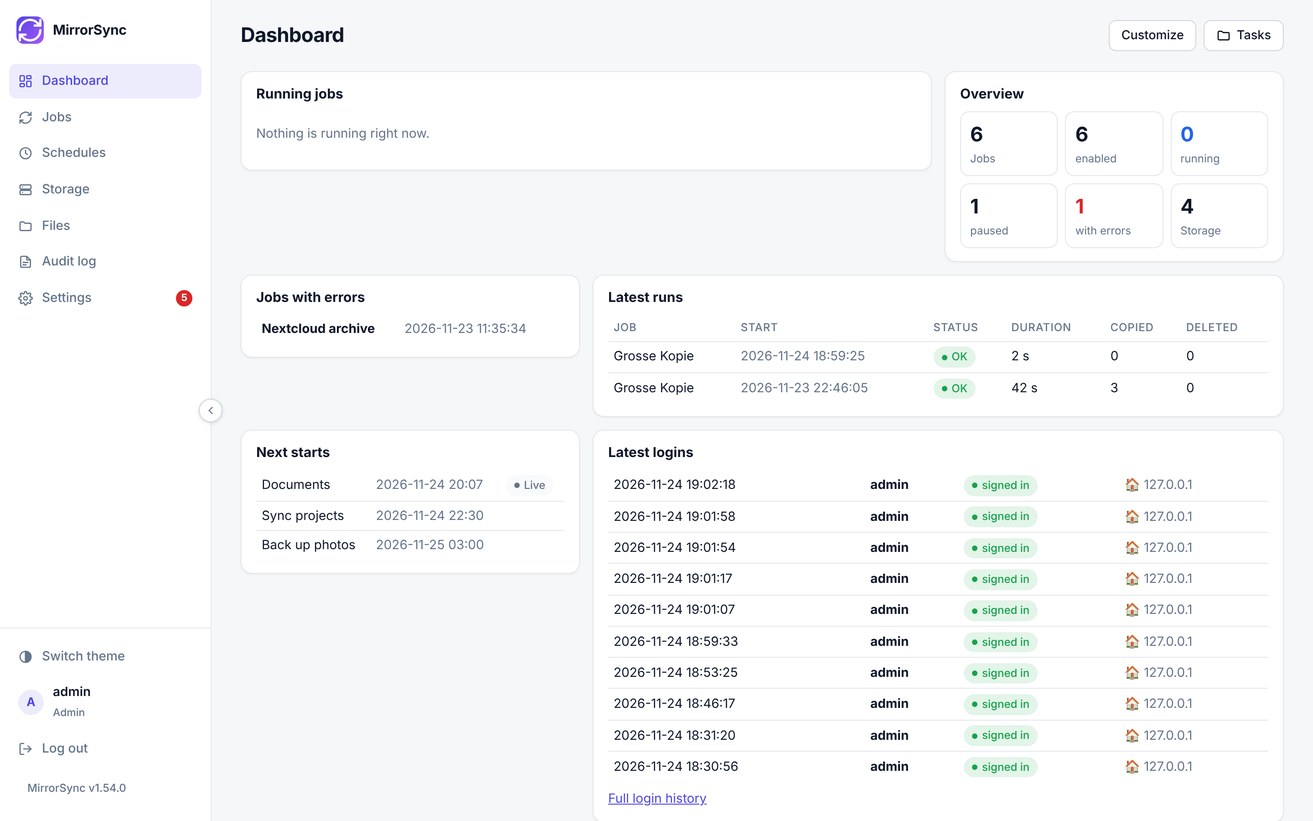
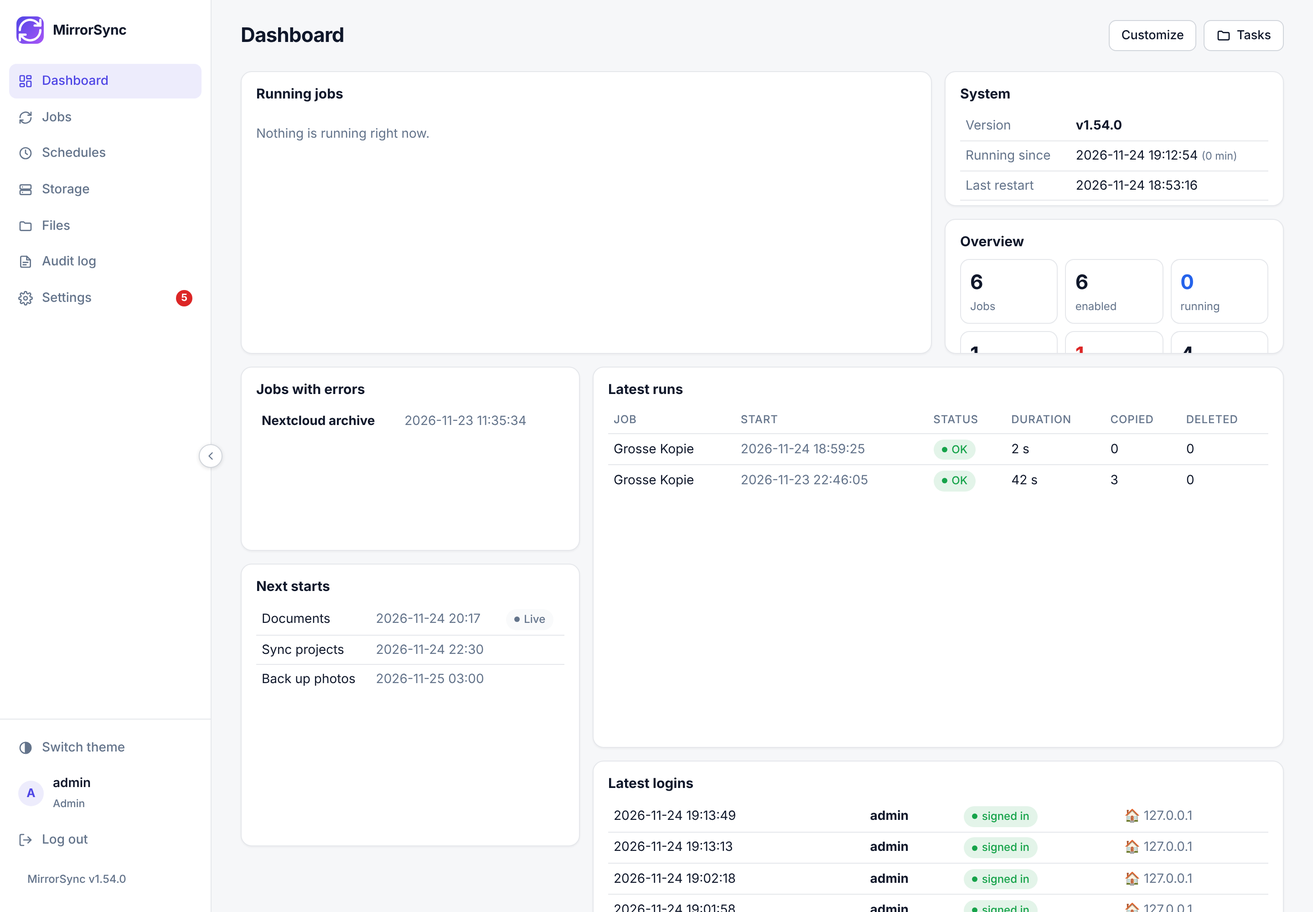
1.55.0: Dashboard-Kacheln frei in Breite und Höhe
Claude-Session: https://claude.ai/code/session_01JV9q9kZHgvjmuziGFDHUDA

diff --git a/app/templates.py b/app/templates.py
@@ -2432,8 +2432,8 @@ if(E)dropZone($('manual-drop'),el=>{const id=el.dataset.id;api('/schedules/job/'
 render();
 </script>
 {% endblock %}""",
-"dashboard_tiles.html": r"""{% for t in layout %}{% set x = d.get(t.id) %}<section class="dtile {{ 'wide' if t.size == 'w' }}" data-id="{{ t.id }}" data-size="{{ t.size }}">
-<div class="dhead"><span class="dgrip" title="Ziehen zum Verschieben">⠿</span><h3>{{ _(titles[t.id][0]) }}</h3><span style="flex:1"></span><span class="dedit"><button type="button" class="btn sm" onclick="dMove(this,-1)" title="Nach vorne">↑</button><button type="button" class="btn sm" onclick="dMove(this,1)" title="Nach hinten">↓</button><button type="button" class="btn sm" onclick="dSize(this)" title="Schmal oder breit">⇔</button><button type="button" class="btn sm del" onclick="dHide(this)" title="Ausblenden">✕</button></span></div>
+"dashboard_tiles.html": r"""{% for t in layout %}{% set x = d.get(t.id) %}<section class="dtile" data-id="{{ t.id }}" data-w="{{ t.w }}" data-h="{{ t.h }}" style="grid-column:span {{ t.w }};grid-row:span {{ t.h }}">
+<div class="dhead"><span class="dgrip" title="Ziehen zum Verschieben">⠿</span><h3>{{ _(titles[t.id][0]) }}</h3><span style="flex:1"></span><span class="dedit"><button type="button" class="btn sm" onclick="dMove(this,-1)" title="Nach vorne">↑</button><button type="button" class="btn sm" onclick="dMove(this,1)" title="Nach hinten">↓</button><small class="dsz mut"></small><button type="button" class="btn sm del" onclick="dHide(this)" title="Ausblenden">✕</button></span></div><span class="dres" title="Ziehen, um Breite und Höhe zu ändern"></span>
 <div class="dbody">
 {% if t.id == "running" %}{% if x %}{% for r in x %}<div class="drun"><div class="dline"><a href="/job/{{ r.id }}/run/{{ r.run }}"><b>{{ r.name }}</b></a><span class="mut"><span>seit</span> {{ r.started }}</span><span style="flex:1"></span><b>{{ r.progress }} %</b></div><div class="fmpbar" style="flex:none;width:100%"><i style="width:{{ r.progress }}%"></i></div>{% if r.stats %}<small class="mut">{{ r.stats }}</small>{% endif %}</div>{% endfor %}{% else %}<p class="mut">Gerade läuft nichts.</p>{% endif %}
 {% elif t.id == "stats" %}<div class="dstats"><a href="/"><b>{{ x.jobs }}</b><span>Aufgaben</span></a><a href="/"><b>{{ x.enabled }}</b><span>eingeschaltet</span></a><a href="/"><b class="laeuft">{{ x.running }}</b><span>laufen</span></a><a href="/"><b>{{ x.paused }}</b><span>pausiert</span></a><a href="/"><b class="{{ 'fehler' if x.failed }}">{{ x.failed }}</b><span>mit Fehler</span></a><a href="/remotes"><b>{{ x.remotes }}</b><span>Speicherorte</span></a></div>
@@ -2447,11 +2447,13 @@ render();
 "dashboard.html": r"""{% extends "base.html" %}{% block title %}Dashboard{% endblock %}
 {% block actions %}<button type="button" class="btn" id="dEditBtn" onclick="dEdit(true)">Anpassen</button>{% endblock %}
 {% block body %}<style>
-.dgrid{display:grid;grid-template-columns:repeat(auto-fill,minmax(340px,1fr));gap:14px;align-items:start}
-.dtile{background:var(--card);border:1px solid var(--bd);border-radius:12px;box-shadow:var(--shadow);min-width:0}
-.dtile.wide{grid-column:span 2}@media(max-width:820px){.dtile.wide{grid-column:auto}}
-.dhead{display:flex;align-items:center;gap:8px;padding:12px 16px 4px}.dhead h3{margin:0;font-size:15px}
-.dbody{padding:4px 16px 14px;overflow-x:auto}.dbody table{width:100%}.dbody td,.dbody th{padding:5px 6px}
+.dgrid{display:grid;grid-template-columns:repeat(12,minmax(0,1fr));grid-auto-rows:40px;grid-auto-flow:row dense;gap:14px}
+.dtile{background:var(--card);border:1px solid var(--bd);border-radius:12px;box-shadow:var(--shadow);min-width:0;min-height:0;display:flex;flex-direction:column;position:relative;overflow:hidden}
+.dhead{display:flex;align-items:center;gap:8px;padding:12px 16px 4px;flex:none}.dhead h3{margin:0;font-size:15px;white-space:nowrap;overflow:hidden;text-overflow:ellipsis}
+.dbody{padding:4px 16px 14px;overflow:auto;flex:1;min-height:0}
+.dres{display:none;position:absolute;right:0;bottom:0;width:22px;height:22px;cursor:nwse-resize;touch-action:none;background:linear-gradient(135deg,transparent 50%,var(--acc) 50%);border-bottom-right-radius:12px}
+.dgrid.editing .dres{display:block}.dgrid.editing .dtile.rs{outline-color:var(--acc)}.dsz{min-width:44px;text-align:right}
+@media(max-width:820px){.dgrid{grid-template-columns:1fr;grid-auto-rows:auto}.dtile{grid-column:1/-1!important;grid-row:auto!important}.dtile .dbody{max-height:420px}.dres,.dsz{display:none!important}}.dbody table{width:100%}.dbody td,.dbody th{padding:5px 6px}
 .dgrip,.dedit{display:none}.dgrid.editing .dgrip{display:inline;cursor:grab;color:var(--mut)}.dgrid.editing .dedit{display:inline-flex;gap:4px}
 .dgrid.editing .dtile{outline:2px dashed var(--bd2);outline-offset:-2px}.dgrid.editing .dtile.drag{opacity:.4}
 .drun{padding:6px 0;border-bottom:1px solid var(--bd)}.drun:last-child{border-bottom:0}.dline{display:flex;gap:10px;align-items:baseline;flex-wrap:wrap;margin-bottom:4px}
@@ -2459,26 +2461,31 @@ render();
 .dstats a:hover{background:var(--acc-soft)}.dstats b{font-size:22px}.dstats span{color:var(--mut);font-size:12px}
 #dbar{display:none;margin-bottom:14px}#dbar.on{display:block}.dadd{display:flex;gap:8px;flex-wrap:wrap;margin-top:8px}
 </style>
-<div class="card" id="dbar"><b>Dashboard anpassen</b> <span class="mut">Kacheln ziehen oder mit ↑ ↓ verschieben, mit ⇔ schmal oder breit stellen, mit ✕ ausblenden.</span>
+<div class="card" id="dbar"><b>Dashboard anpassen</b> <span class="mut">Kacheln ziehen oder mit ↑ ↓ verschieben, an der Ecke unten rechts größer oder kleiner ziehen, mit ✕ ausblenden. Kleine Kacheln rücken automatisch in freie Lücken, z. B. zwei halb so hohe untereinander neben eine große.</span>
 <div class="dadd" id="dadd"></div>
 <p style="margin:12px 0 0"><button type="button" class="btn pri" onclick="dSave()">Speichern</button> <button type="button" class="btn" onclick="location.reload()">Abbrechen</button> <button type="button" class="btn" onclick="dReset()">Standard wiederherstellen</button></p></div>
 <div class="dgrid" id="dgrid">{% include "dashboard_tiles.html" %}</div>
 {% if not layout %}<div class="card empty" id="dempty"><p>Keine Kacheln ausgewählt. Mit „Anpassen“ Kacheln hinzufügen.</p></div>{% endif %}
 <script>
 const CAT={{ catalog|tojson }};let editing=false,dragEl=null;const G=document.getElementById('dgrid');
-function dTiles(){return [...G.querySelectorAll('.dtile')].map(t=>({id:t.dataset.id,size:t.dataset.size}))}
+function dTiles(){return [...G.querySelectorAll('.dtile')].map(t=>({id:t.dataset.id,w:+t.dataset.w,h:+t.dataset.h}))}
+function dSet(t,w,h){t.dataset.w=w;t.dataset.h=h;t.style.gridColumn='span '+w;t.style.gridRow='span '+h;const z=t.querySelector('.dsz');if(z)z.textContent=w+' × '+h}
+function dRes(t){const hd=t.querySelector('.dres');if(!hd||hd.dataset.on)return;hd.dataset.on=1;
+ hd.onpointerdown=e=>{if(!editing)return;e.preventDefault();e.stopPropagation();hd.setPointerCapture(e.pointerId);t.draggable=false;t.classList.add('rs');
+  const gs=getComputedStyle(G),gap=parseFloat(gs.columnGap)||14,cw=(G.clientWidth-11*gap)/12+gap,rh=40+(parseFloat(gs.rowGap)||14),x0=e.clientX,y0=e.clientY,w0=+t.dataset.w,h0=+t.dataset.h;
+  hd.onpointermove=m=>dSet(t,Math.max(1,Math.min(12,Math.round(w0+(m.clientX-x0)/cw))),Math.max(1,Math.min(24,Math.round(h0+(m.clientY-y0)/rh))));
+  hd.onpointerup=()=>{hd.onpointermove=null;hd.onpointerup=null;t.classList.remove('rs');t.draggable=editing}}}
 function dAddList(){const have=new Set(dTiles().map(t=>t.id)),box=document.getElementById('dadd');box.innerHTML='';
  CAT.filter(c=>!have.has(c.id)).forEach(c=>{const b=document.createElement('button');b.type='button';b.className='btn sm';b.textContent='+ '+c.title;b.title=c.description;b.onclick=()=>dAdd(c);box.appendChild(b)});
  if(!box.children.length){box.innerHTML='<span class="mut">'+"Alle Kacheln sind schon zu sehen."+'</span>'}}
-function dAdd(c){const s=document.createElement('section');s.className='dtile'+(c.size=='w'?' wide':'');s.dataset.id=c.id;s.dataset.size=c.size;
- s.innerHTML='<div class="dhead"><span class="dgrip">⠿</span><h3></h3><span style="flex:1"></span><span class="dedit"><button type="button" class="btn sm" onclick="dMove(this,-1)">↑</button><button type="button" class="btn sm" onclick="dMove(this,1)">↓</button><button type="button" class="btn sm" onclick="dSize(this)">⇔</button><button type="button" class="btn sm del" onclick="dHide(this)">✕</button></span></div><div class="dbody"><p class="mut">'+"Wird nach dem Speichern angezeigt."+'</p></div>';
- s.querySelector('h3').textContent=c.title;G.appendChild(s);dDrag(s);dAddList();const e=document.getElementById('dempty');if(e)e.remove()}
+function dAdd(c){const s=document.createElement('section');s.className='dtile';s.dataset.id=c.id;
+ s.innerHTML='<div class="dhead"><span class="dgrip">⠿</span><h3></h3><span style="flex:1"></span><span class="dedit"><button type="button" class="btn sm" onclick="dMove(this,-1)">↑</button><button type="button" class="btn sm" onclick="dMove(this,1)">↓</button><small class="dsz mut"></small><button type="button" class="btn sm del" onclick="dHide(this)">✕</button></span></div><div class="dbody"><p class="mut">'+"Wird nach dem Speichern angezeigt."+'</p></div><span class="dres"></span>';
+ s.querySelector('h3').textContent=c.title;G.appendChild(s);dSet(s,c.w,c.h);dDrag(s);dRes(s);dAddList();const e=document.getElementById('dempty');if(e)e.remove()}
 function dMove(b,dir){const t=b.closest('.dtile');if(dir<0&&t.previousElementSibling)G.insertBefore(t,t.previousElementSibling);else if(dir>0&&t.nextElementSibling)G.insertBefore(t.nextElementSibling,t)}
-function dSize(b){const t=b.closest('.dtile');t.dataset.size=t.dataset.size=='w'?'s':'w';t.classList.toggle('wide',t.dataset.size=='w')}
 function dHide(b){b.closest('.dtile').remove();dAddList()}
-function dDrag(t){t.draggable=editing;t.ondragstart=e=>{dragEl=t;t.classList.add('drag');e.dataTransfer.effectAllowed='move'};t.ondragend=()=>{t.classList.remove('drag');dragEl=null};
+function dDrag(t){t.draggable=editing;t.ondragstart=e=>{dragEl=t;t.classList.add('drag');e.dataTransfer.effectAllowed='move';try{e.dataTransfer.setData('text/plain',t.dataset.id)}catch(x){}};t.ondragend=()=>{t.classList.remove('drag');dragEl=null};
  t.ondragover=e=>{if(!dragEl||dragEl===t)return;e.preventDefault();const r=t.getBoundingClientRect(),after=(e.clientY-r.top)>r.height/2||(e.clientX-r.left)>r.width*0.66;G.insertBefore(dragEl,after?t.nextSibling:t)}}
-function dEdit(on){editing=on;G.classList.toggle('editing',on);document.getElementById('dbar').classList.toggle('on',on);document.getElementById('dEditBtn').style.display=on?'none':'';G.querySelectorAll('.dtile').forEach(dDrag);if(on)dAddList()}
+function dEdit(on){editing=on;G.classList.toggle('editing',on);document.getElementById('dbar').classList.toggle('on',on);document.getElementById('dEditBtn').style.display=on?'none':'';G.querySelectorAll('.dtile').forEach(t=>{dDrag(t);dRes(t);dSet(t,+t.dataset.w,+t.dataset.h)});if(on)dAddList()}
 async function dPost(body){const r=await fetch('/dashboard/layout',{method:'POST',headers:{'Content-Type':'application/json','Accept':'application/json'},body:JSON.stringify(body)});const j=await r.json().catch(()=>({}));if(!r.ok||!j.ok){alert(j.error||r.status);return}location.reload()}
 function dSave(){dPost({tiles:dTiles()})}
 function dReset(){dPost({reset:true})}

diff --git a/app/dashboard.py b/app/dashboard.py
@@ -1,22 +1,25 @@
 """Dashboard: Kacheln, die jeder Benutzer selbst auswaehlt, anordnet und in der Breite einstellt.
 
-Layout je Benutzer (auch API-Keys) in der Datenbank, Bereich "dashboard": [{"id": "running", "size": "s" | "w"}, ...].
+Layout je Benutzer (auch API-Keys) in der Datenbank, Bereich "dashboard": [{"id": "running", "w": 1-12, "h": 1-24}, ...].
 Jede Kachel braucht ein Recht; Kacheln ohne Recht werden weder angezeigt noch geliefert.
 """
 
-# id: (Titel, Recht, Beschreibung, Standardbreite)
+# id: (Titel, Recht, Beschreibung, Standardbreite, Standardhoehe)
+# Raster: 12 Spalten, Zeilen zu je ROW_PX Pixel. Kacheln werden dicht gepackt (kleine Kacheln fuellen Luecken),
+# so passen z. B. zwei Kacheln mit Hoehe 3 untereinander neben eine Kachel mit Hoehe 6.
+COLS, MAX_H, ROW_PX = 12, 24, 40
 TILES = {
-    "running": ("Laufende Aufträge", "jobs.view", "Aufgaben, die gerade laufen, mit Fortschritt", "w"),
-    "stats": ("Überblick", "jobs.view", "Anzahl Aufgaben, laufend, pausiert, mit Fehler, Speicherorte", "s"),
-    "failed": ("Aufgaben mit Fehler", "jobs.view", "Aufgaben, deren letzter Lauf fehlgeschlagen ist", "s"),
-    "last_runs": ("Letzte Läufe", "jobs.view", "Die letzten 10 Läufe aller Aufgaben", "w"),
-    "next_runs": ("Nächste Starts", "jobs.view", "Die nächsten 10 geplanten Starts", "s"),
-    "logins": ("Letzte Anmeldungen", "users.view", "Die letzten 10 Anmeldungen und Fehlversuche", "w"),
-    "audit": ("Letzte Änderungen", "system.audit", "Die letzten 10 Einträge im Audit-Log", "w"),
-    "system": ("System", None, "Version, Updates, Laufzeit seit dem letzten Start", "s"),
+    "running": ("Laufende Aufträge", "jobs.view", "Aufgaben, die gerade laufen, mit Fortschritt", 8, 4),
+    "stats": ("Überblick", "jobs.view", "Anzahl Aufgaben, laufend, pausiert, mit Fehler, Speicherorte", 4, 6),
+    "failed": ("Aufgaben mit Fehler", "jobs.view", "Aufgaben, deren letzter Lauf fehlgeschlagen ist", 4, 4),
+    "last_runs": ("Letzte Läufe", "jobs.view", "Die letzten 10 Läufe aller Aufgaben", 8, 8),
+    "next_runs": ("Nächste Starts", "jobs.view", "Die nächsten 10 geplanten Starts", 4, 6),
+    "logins": ("Letzte Anmeldungen", "users.view", "Die letzten 10 Anmeldungen und Fehlversuche", 8, 10),
+    "audit": ("Letzte Änderungen", "system.audit", "Die letzten 10 Einträge im Audit-Log", 8, 10),
+    "system": ("System", None, "Version, Updates, Laufzeit seit dem letzten Start", 4, 5),
 }
 DEFAULT = ["running", "stats", "failed", "last_runs", "next_runs", "logins", "audit", "system"]
-SIZES = ("s", "w")
+OLD_SIZE = {"s": 4, "w": 8}   # Layouts aus 1.54.0: size s/w
 
 
 def allowed(tile_id, has):
@@ -24,12 +27,24 @@ def allowed(tile_id, has):
     return perm is None or has(perm)
 
 
+def _tile(tid, w=None, h=None):
+    return {"id": tid, "w": w or TILES[tid][3], "h": h or TILES[tid][4]}
+
+
 def default_layout(has):
-    return [{"id": t, "size": TILES[t][3]} for t in DEFAULT if allowed(t, has)]
+    return [_tile(t) for t in DEFAULT if allowed(t, has)]
+
+
+def _int(v):
+    try:
+        return int(v)
+    except (TypeError, ValueError):
+        return None
 
 
 def clean(raw, has):
-    """Layout pruefen. raw: Liste aus {"id", "size"} oder Kachel-IDs. Liefert (layout, None) oder (None, (text, *args))."""
+    """Layout pruefen. raw: Liste aus {"id", "w", "h"} (oder alt {"id", "size"}) oder Kachel-IDs.
+    Liefert (layout, None) oder (None, (text, *args))."""
     if not isinstance(raw, list):
         return None, ("Kacheln als Liste angeben.",)
     out, seen = [], set()
@@ -39,15 +54,18 @@ def clean(raw, has):
         if not isinstance(item, dict) or item.get("id") not in TILES:
             return None, ("Unbekannte Kachel: {0}", str(item.get("id") if isinstance(item, dict) else item))
         tid = item["id"]
-        size = item.get("size") or TILES[tid][3]
-        if size not in SIZES:
-            return None, ("Breite ist s (schmal) oder w (breit).",)
+        w = _int(item.get("w")) if item.get("w") is not None else OLD_SIZE.get(item.get("size"), TILES[tid][3])
+        h = _int(item.get("h")) if item.get("h") is not None else TILES[tid][4]
+        if w is None or not 1 <= w <= COLS:
+            return None, ("Breite w ist 1 bis {0} Spalten.", COLS)
+        if h is None or not 1 <= h <= MAX_H:
+            return None, ("Höhe h ist 1 bis {0} Zeilen.", MAX_H)
         if tid in seen:
             continue
         if not allowed(tid, has):
             return None, ("Keine Berechtigung für die Kachel {0}.", tid)
         seen.add(tid)
-        out.append({"id": tid, "size": size})
+        out.append(_tile(tid, w, h))
     return out, None
 
 
@@ -55,9 +73,13 @@ def layout_for(stored, has):
     """Gespeichertes Layout (oder Standard), ohne Kacheln, fuer die das Recht fehlt."""
     if not isinstance(stored, list):
         return default_layout(has)
-    return [t for t in stored if isinstance(t, dict) and t.get("id") in TILES and allowed(t["id"], has)]
+    out = []
+    for t in stored:
+        if isinstance(t, dict) and t.get("id") in TILES and allowed(t["id"], has):
+            out.append(_tile(t["id"], t.get("w") or OLD_SIZE.get(t.get("size")), t.get("h")))
+    return out
 
 
 def catalog(has, tr=lambda x: x):
-    return [{"id": t, "title": tr(v[0]), "description": tr(v[2]), "permission": v[1], "size": v[3]}
+    return [{"id": t, "title": tr(v[0]), "description": tr(v[2]), "permission": v[1], "w": v[3], "h": v[4]}
             for t, v in TILES.items() if allowed(t, has)]

diff --git a/app/apigui.py b/app/apigui.py
@@ -800,7 +800,8 @@ def a_update_update_settings(a):
 
 
 @action("get_dashboard", "GET", "/dashboard", None, "Dashboard",
-        "Dashboard des angemeldeten Benutzers bzw. API-Keys: tiles (Reihenfolge, size s = schmal, w = breit), data (Inhalt "
+        "Dashboard des angemeldeten Benutzers bzw. API-Keys: tiles (Reihenfolge, w = Breite 1–12 Spalten, h = Höhe 1–24 "
+        "Zeilen zu 40 px; kleinere Kacheln rücken in freie Lücken), data (Inhalt "
         "jeder Kachel: running, stats, failed, last_runs, next_runs, logins = letzte 10 Anmeldungen, audit, system) und "
         "available (alle Kacheln, für die das Recht reicht). Kacheln ohne passendes Recht fehlen.", ro=True)
 def a_get_dashboard(a):
@@ -810,10 +811,12 @@ def a_get_dashboard(a):
 
 @action("update_dashboard", "PUT", "/dashboard", None, "Dashboard",
         "Kacheln des Dashboards festlegen (wie „Anpassen“ in der GUI): tiles = Liste in der gewünschten Reihenfolge, je "
-        "{id, size} (size s oder w) oder nur die id. Nicht genannte Kacheln werden ausgeblendet. reset=true stellt den "
+        "{id, w, h} (w = Breite 1–12 Spalten, h = Höhe 1–24 Zeilen, fehlt eins, gilt der Standard der Kachel) oder nur die id. "
+        "Kleinere Kacheln rücken automatisch in freie Lücken. Nicht genannte Kacheln werden ausgeblendet. reset=true stellt den "
         "Standard wieder her. Gilt für den angemeldeten Benutzer bzw. API-Key.",
         {"tiles": dict(type="array", items={"type": "object", "properties": {"id": {"type": "string"},
-                                                                              "size": {"type": "string", "enum": ["s", "w"]}}}),
+                                                                              "w": {"type": "integer", "minimum": 1, "maximum": 12},
+                                                                              "h": {"type": "integer", "minimum": 1, "maximum": 24}}}),
          "reset": S(BOOL)})
 def a_update_dashboard(a):
     _check_keys(a, ("tiles", "reset"))

diff --git a/README.de.md b/README.de.md
@@ -4,7 +4,7 @@
 
 # MirrorSync – 1:1-Spiegelung mit Web-GUI und Zeitplänen
 
-Version **1.54.0** · Änderungen siehe [CHANGELOG.md](CHANGELOG.md) (englisch) · [English version](README.md)
+Version **1.55.0** · Änderungen siehe [CHANGELOG.md](CHANGELOG.md) (englisch) · [English version](README.md)
 
 Ein Docker-Container, der Ordner **einweg 1:1 spiegelt** (wie FreeFileSync „Spiegeln"):
 Das Ziel wird exakt wie die Quelle, inklusive Löschungen. Als Sync-Motor dient
@@ -68,7 +68,7 @@ Geänderte Dateien werden komplett neu übertragen (kein Delta wie bei rsync).
 
 ## Installation
 Das fertige Image liegt in der GitHub Container Registry: `ghcr.io/dermilderjoghurt/mirrorsync`
-(für amd64 und arm64, z. B. Raspberry Pi). Tags: `latest` (neueste Version), `1.54.0` (feste Version),
+(für amd64 und arm64, z. B. Raspberry Pi). Tags: `latest` (neueste Version), `1.55.0` (feste Version),
 `1.40` (neuester Patch dieser Version). Das Image wird nur veröffentlicht, wenn sich die Versionsnummer ändert.
 Update-Prüfer wie Dockhand oder Watchtower melden deshalb nur dann ein Update, wenn es wirklich eine neue Version gibt.
 
@@ -292,9 +292,13 @@ Ganz oben in der Seitenleiste: **Dashboard** mit Kacheln, die sich alle 5 Sekund
 | Letzte Änderungen | die letzten 10 Einträge im Audit-Log | `system.audit` |
 | System | Version, verfügbares Update, läuft seit, letzter Neustart | – |
 
-Mit **Anpassen** wählt jeder Benutzer selbst, welche Kacheln er sieht, in welcher Reihenfolge (ziehen oder ↑ ↓) und
-ob schmal oder breit (⇔). „Standard wiederherstellen“ setzt alles zurück. Kacheln, für die das Recht fehlt, erscheinen
-nicht. Das Layout gilt pro Benutzer (und pro API-Key). API/MCP: `get_dashboard`, `update_dashboard` (`tiles`, `reset`).
+Mit **Anpassen** wählt jeder Benutzer selbst, welche Kacheln er sieht und in welcher Reihenfolge (ziehen oder ↑ ↓).
+Seit 1.55.0 lässt sich jede Kachel an der Ecke unten rechts frei größer und kleiner ziehen, in Breite (1–12 Spalten) und
+Höhe (1–24 Zeilen). Kleinere Kacheln rücken automatisch in freie Lücken: zwei halb so hohe Kacheln stehen so
+untereinander neben einer großen. Passt der Inhalt nicht hinein, lässt er sich in der Kachel scrollen. Auf dem Handy
+stehen alle Kacheln untereinander. „Standard wiederherstellen“ setzt alles zurück. Kacheln, für die das Recht fehlt,
+erscheinen nicht. Das Layout gilt pro Benutzer (und pro API-Key). API/MCP: `get_dashboard`, `update_dashboard`
+(`tiles` mit `id`, `w`, `h`; `reset`).
 
 ## Neustart und alte Images (seit 1.53.0)
 Unter **Einstellungen → Allgemein → Neustart** lässt sich der Container von MirrorSync neu starten: von Hand mit
@@ -933,7 +937,7 @@ MirrorSync kann sich selbst aktualisieren, wenn du den Docker-Socket in den Cont
   sie entfernt und die bisherige läuft wieder. Ergebnis und Ablauf stehen in der GUI, im Audit-Log
   („Update gestartet / abgeschlossen / fehlgeschlagen“) und in `config/selfupdate.json`.
 - **Voraussetzungen:** Das Image muss aus einem Registry kommen (`image: ghcr.io/dermilderjoghurt/mirrorsync:latest`).
-  Mit `build: .` gebaute Images kann MirrorSync nicht neu holen. Mit festem Versions-Tag (`:1.54.0`) wird nur dieser
+  Mit `build: .` gebaute Images kann MirrorSync nicht neu holen. Mit festem Versions-Tag (`:1.55.0`) wird nur dieser
   Tag neu geholt. `/config` muss als Volume oder Ordner eingebunden sein (ist es in der Beispiel-Compose).
 - **Recht:** `system.update` („MirrorSync aktualisieren“, Admins haben es automatisch). Automatik und Uhrzeit
   ändern braucht `system.settings`.

diff --git a/README.md b/README.md
@@ -4,7 +4,7 @@
 
 # MirrorSync – 1:1 mirroring with a web GUI and schedules
 
-Version **1.54.0** · Changes: [CHANGELOG.md](CHANGELOG.md) · [Deutsche Version](README.de.md)
+Version **1.55.0** · Changes: [CHANGELOG.md](CHANGELOG.md) · [Deutsche Version](README.de.md)
 
 A Docker container that **mirrors folders one-way, 1:1** (like FreeFileSync "Mirror"):
 the destination becomes an exact copy of the source, including deletions. The sync engine is
@@ -67,7 +67,7 @@ Changed files are transferred completely (no delta transfer like rsync).
 
 ## Installation
 The ready-made image is in the GitHub Container Registry: `ghcr.io/dermilderjoghurt/mirrorsync`
-(for amd64 and arm64, e.g. Raspberry Pi). Tags: `latest` (newest version), `1.54.0` (fixed version),
+(for amd64 and arm64, e.g. Raspberry Pi). Tags: `latest` (newest version), `1.55.0` (fixed version),
 `1.40` (newest patch of this version). The image is only published when the version number changes, so
 update checkers such as Dockhand or Watchtower only report an update when there really is a new version.
 
@@ -288,9 +288,12 @@ At the top of the sidebar: **Dashboard** with tiles that refresh themselves ever
 | Latest changes | the last 10 audit log entries | `system.audit` |
 | System | version, available update, running since, last restart | – |
 
-With **Customize** every user picks which tiles to see, in which order (drag or ↑ ↓) and whether narrow or wide (⇔).
-"Restore default" resets everything. Tiles without the needed permission are not shown. The layout is per user (and
-per API key). API/MCP: `get_dashboard`, `update_dashboard` (`tiles`, `reset`).
+With **Customize** every user picks which tiles to see and in which order (drag or ↑ ↓). Since 1.55.0 each tile can
+be resized freely by dragging its bottom right corner, in width (1–12 columns) and height (1–24 rows). Smaller tiles
+move into free gaps automatically, so two half-height tiles stack next to a big one. If the content does not fit, it
+scrolls inside the tile. On phones all tiles are stacked. "Restore default" resets everything. Tiles without the
+needed permission are not shown. The layout is per user (and per API key). API/MCP: `get_dashboard`,
+`update_dashboard` (`tiles` with `id`, `w`, `h`; `reset`).
 
 ## Restart and old images (since 1.53.0)
 Under **Settings → General → Restart** you can restart the MirrorSync container: by hand with "Restart now" or on a
@@ -908,7 +911,7 @@ MirrorSync can update itself if you mount the Docker socket into the container:
   previous one runs again. Result and steps are shown in the GUI, in the audit log ("Update started / completed /
   failed") and in `config/selfupdate.json`.
 - **Requirements:** the image has to come from a registry (`image: ghcr.io/dermilderjoghurt/mirrorsync:latest`).
-  MirrorSync cannot pull images built with `build: .`. With a fixed version tag (`:1.54.0`) only that tag is pulled
+  MirrorSync cannot pull images built with `build: .`. With a fixed version tag (`:1.55.0`) only that tag is pulled
   again. `/config` has to be a volume or bind mount (it is in the example compose file).
 - **Permission:** `system.update` ("Update MirrorSync", admins have it automatically). Changing the automatic
   update and its time needs `system.settings`.

diff --git a/CHANGELOG.md b/CHANGELOG.md
@@ -3,6 +3,13 @@
 Version numbers follow [SemVer](https://semver.org/): MAJOR.MINOR.PATCH
 (MAJOR = incompatible change, MINOR = new feature, PATCH = bug fix).
 
+## 1.55.0 – 2026-11-24
+- **Arrange the dashboard freely:** drag the bottom right corner of any tile to change its width (1–12 columns) and
+  height (1–24 rows). Smaller tiles move into free gaps automatically, e.g. two half-height tiles stacked next to a big
+  one. Content that does not fit scrolls inside the tile. Layouts from 1.54.0 are taken over.
+- API/MCP: `update_dashboard` takes `w` and `h` per tile (instead of `size`), `get_dashboard` returns them. All 5
+  languages.
+
 ## 1.54.0 – 2026-11-24
 - **Dashboard** (new, at the top of the sidebar) with tiles: running jobs, overview, jobs with errors, last 10 runs,
   next 10 starts, last 10 logins, last 10 changes (audit log), system. Refreshes every 5 seconds. With "Customize" you
